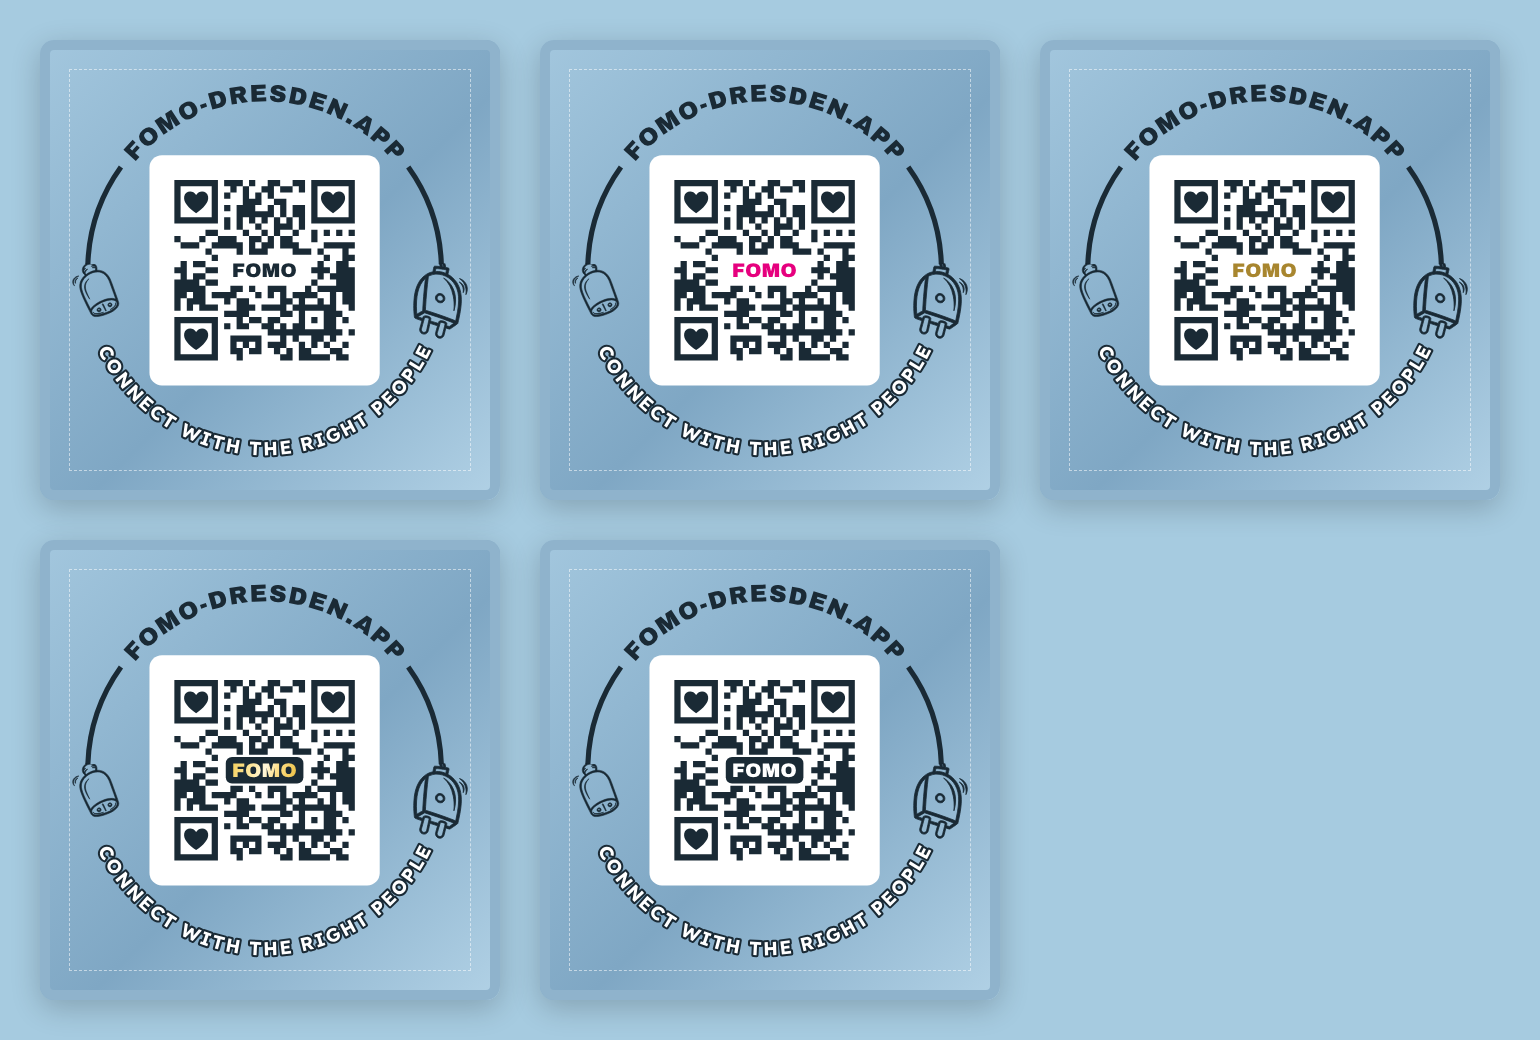
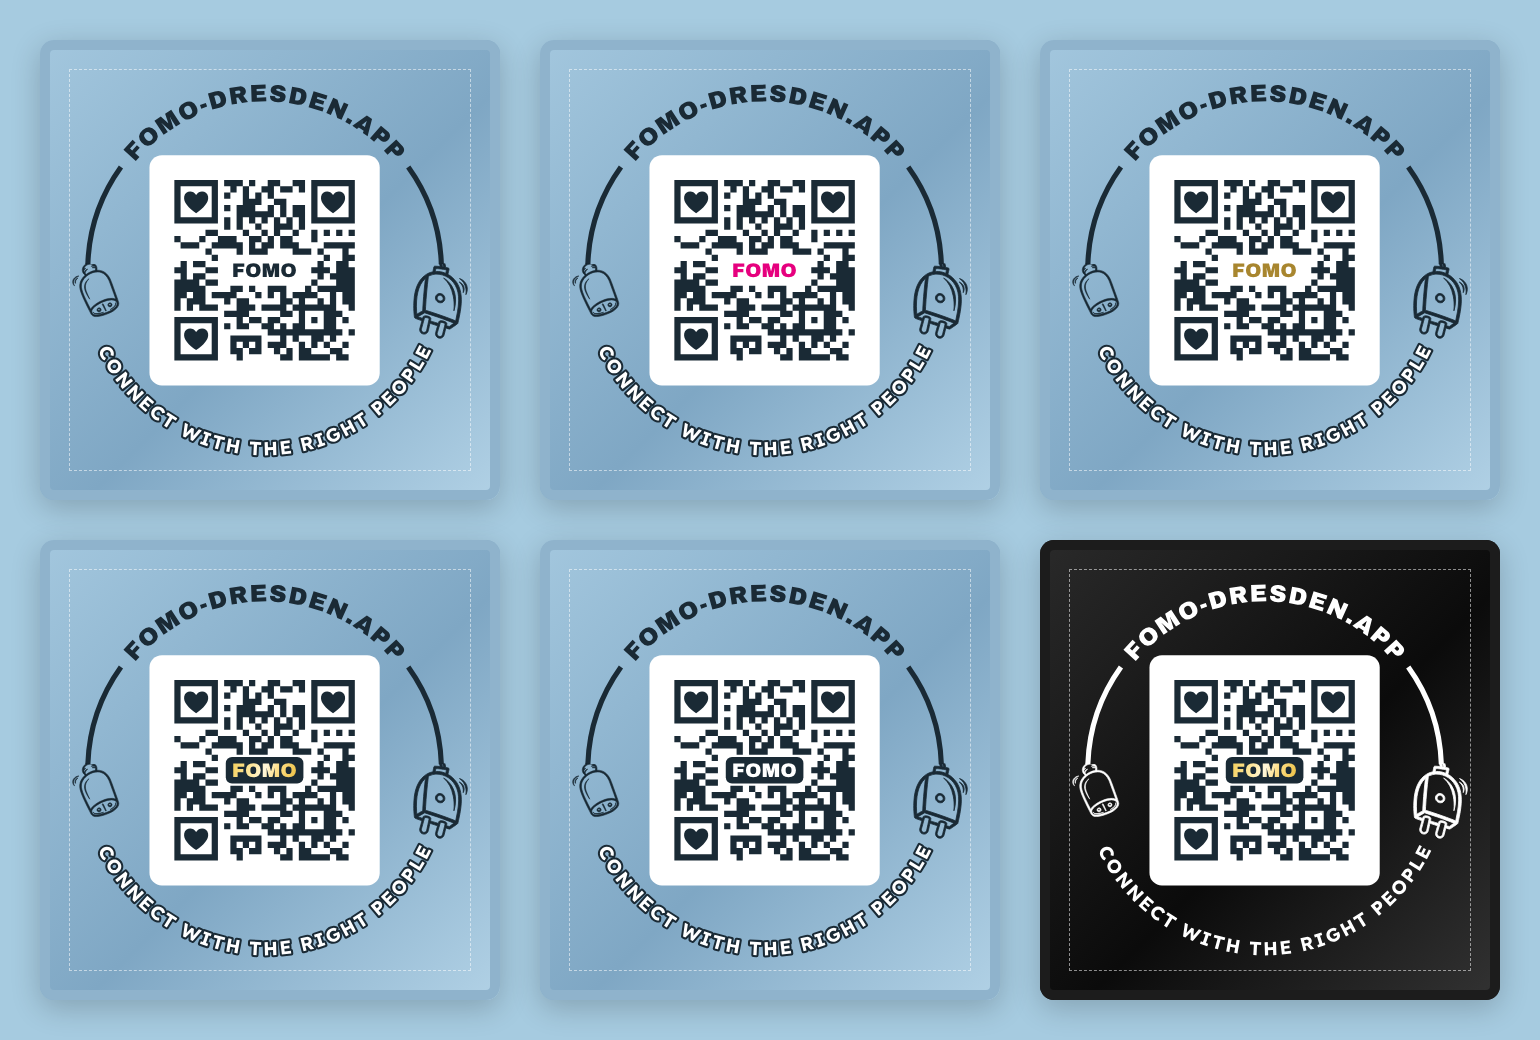
feat(marketing): condom design variant for black wrapper foil
schwarze-folie: ring, texts and plugs in white, shiny gold FOMO on the
dark field, QR unchanged on its white plate (generate.mjs 5th arg
"dark-foil"). Preview shows it on black.

Claude-Session: https://claude.ai/code/session_013qs9RaJ6tADjtLZjLi6wTT

Changed region(s): [[0.6545, 0.4923, 0.9974, 0.9846]]

diff --git a/marketing/kondom-design/README.md b/marketing/kondom-design/README.md
@@ -1,7 +1,8 @@
 <!-- SPDX-License-Identifier: AGPL-3.0-only -->
 # Kondom-Design „Connect with the right people“
 
-Druckvorlage 50 × 50 mm, fünf Farbvarianten des „FOMO“-Labels (navy, pink, gold, gold-schwarz = helles, glänzendes Gold (Farbverlauf) auf dunklem Feld, weiss = weiß auf dunklem Feld).
+Druckvorlage 50 × 50 mm, fünf Farbvarianten des „FOMO“-Labels (navy, pink, gold, gold-schwarz = helles, glänzendes Gold (Farbverlauf) auf dunklem Feld, weiss = weiß auf dunklem Feld) **plus `schwarze-folie` für schwarze Siegelfolie**:
+Ring, Schriften und Stecker in Weiß, „FOMO“ in glänzendem Gold auf dunklem Feld.
 QR-Inhalt: `HTTPS://WWW.FOMO-DRESDEN.APP/K` → Quiz mit `utm_source=kondom`
 (Kurzlink in `static-site/vercel.json`, Auswertung: Event `campaign-visit`).
 
@@ -43,6 +44,10 @@ Druckfläche setzen oder das PDF passend verkleinert platzieren lassen.
 
 ## Vor der Bestellung
 
+- **Schwarze Folie (`schwarze-folie`):** Alles Helle (Ring, Schriften, Stecker,
+  QR-Fläche) muss in **Deckweiß** gedruckt werden – ohne Weißdruck verschwindet es
+  auf schwarzer Folie. Bei der Bestellung „Weißdruck/Weiß unterlegen“ angeben.
+
 0. „gold-schwarz“: Der Glanz ist ein gedruckter Farbverlauf. Echtes Metallic-Gold
    gibt es nur mit Heißfolienprägung/Sonderfarbe – bei der Druckerei nachfragen.
 
@@ -76,7 +81,8 @@ In einem temporären Ordner installieren, dann:
 npm i opentype.js@1.3.4 @fontsource/archivo-black@5.0.19 @fontsource/lexend@5.0.21 qrcode-generator@2.0.4 playwright
 node generate.mjs <ordner> "#1a2a35" navy        # je Farbvariante
 node generate.mjs <ordner> shiny-gold gold-schwarz dark   # glänzendes Gold auf dunklem Feld
-node export.mjs <ordner> navy pink gold gold-schwarz weiss   # randlos einpassen + PDF/PNG/Vorschau
+node generate.mjs <ordner> shiny-gold schwarze-folie dark dark-foil   # für schwarze Siegelfolie
+node export.mjs <ordner> navy pink gold gold-schwarz weiss schwarze-folie   # randlos einpassen + PDF/PNG/Vorschau
 ```
 
 `export.mjs` misst das fertige Motiv und schneidet den leeren Rand weg, sodass das
